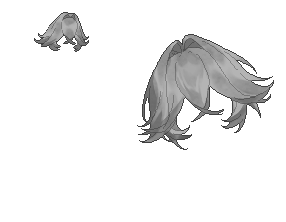
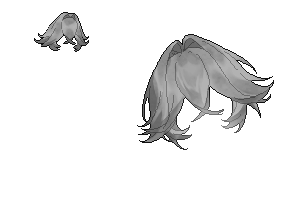
Replace Wangwanglang hair with Drive 2.0 asset

diff --git a/REPOSITORY.md b/REPOSITORY.md
@@ -5,7 +5,7 @@
 | 位置 | 内容 | 版本来源 |
 | --- | --- | --- |
 | 仓库根目录 | SillyTavern 扩展本体；`index.js`、`bootstrap.js`、样式、正则、依赖等 | `manifest.json` 的 `version`，当前 `0.2.32` |
-| `assets/` 和 `data/asset-registry.json` | 扩展自带素材及其索引 | `assets/pack-version.json` 的 `version`，当前 `0.1.1`，独立记录 |
+| `assets/` 和 `data/asset-registry.json` | 扩展自带素材及其索引 | `assets/pack-version.json` 的 `version`，当前 `0.1.2`，独立记录 |
 | `packs/` | 以后发布的独立 ZIP 图包 | 每个图包自身 `pack.json` 的 `version` |
 | `examples/图包模板/` | 制作示例 | 示例版本不代表正式图包版本 |
 
@@ -13,4 +13,4 @@
 
 目前 `assets/pack-version.json` 只记录版本，扩展尚未读取它。扩展设置页也尚未同时显示框架版本与内置图包版本；已导入图包的版本则由现有图包列表显示。`manifest.json` 暂时保留 `auto_update: false`；扩展里的「检查更新」按钮会调用 SillyTavern 自带的更新接口，检查并拉取这个仓库的新提交，更新完成后可直接刷新页面。
 
-以后从 Google Drive 取得素材，核对文件与图包配置后，再放入 `packs/` 发布。v0.2.32 先按内置素材既有编号引入一张前发图；Drive 保留原文件名，扩展显示原名称，仓库使用 `front_hair_008.png`。v0.2.30 已为 AI 剧情款接入 Overlay（覆盖）染色，v0.2.31 修正极端色的细节损失；多区域名称及前后片蒙版由图包声明，模型只为已声明区域选颜色。手动高级染色仍用原算法。
+以后从 Google Drive 取得素材，核对文件与图包配置后，再放入 `packs/` 发布。v0.2.32 先按内置素材既有编号引入一张前发图；内置素材 v0.1.2 已将其替换成云盘「汪汪狼2.0.png」，保留部件编号、穿戴选择与扩展显示名。v0.2.30 已为 AI 剧情款接入 Overlay（覆盖）染色，v0.2.31 修正极端色的细节损失；多区域名称及前后片蒙版由图包声明，模型只为已声明区域选颜色。手动高级染色仍用原算法。

diff --git a/CHANGELOG.md b/CHANGELOG.md
@@ -1,5 +1,8 @@
 # CHANGELOG
 
+## 内置素材 0.1.2（框架 0.2.32）
+- 用 Google Drive 的「汪汪狼2.0.png」替换 `front_hair_008.png`，保留前发部件编号与显示名。更新素材索引，框架代码不变。
+
 ## 0.2.32（内置素材 0.1.1）
 - 从 Google Drive 的「纸娃娃/发型/前发/汪汪狼.png」引入同尺寸透明前发，注册为 `front_hair_008.png`，显示名「汪汪狼」。
 - 保留扩展设置抽屉在选项更改、提示词同步等重绘后的展开状态；框架与素材版本分别记录。

diff --git a/README.md b/README.md
@@ -2,6 +2,8 @@
 
 可通过 SillyTavern 的第三方扩展地址安装，也可从仓库更新。
 
+内置素材 v0.1.2：前发「汪汪狼」已换成云盘的 2.0 图片，原部件编号和框架版本保持不变。
+
 ## v0.2.32 · 前发与设置面板
 
 - 内置前发新增「汪汪狼」，来自 Google Drive 的同名 PNG；仓库文件使用 `front_hair_008.png`，云盘原件保留原名。
